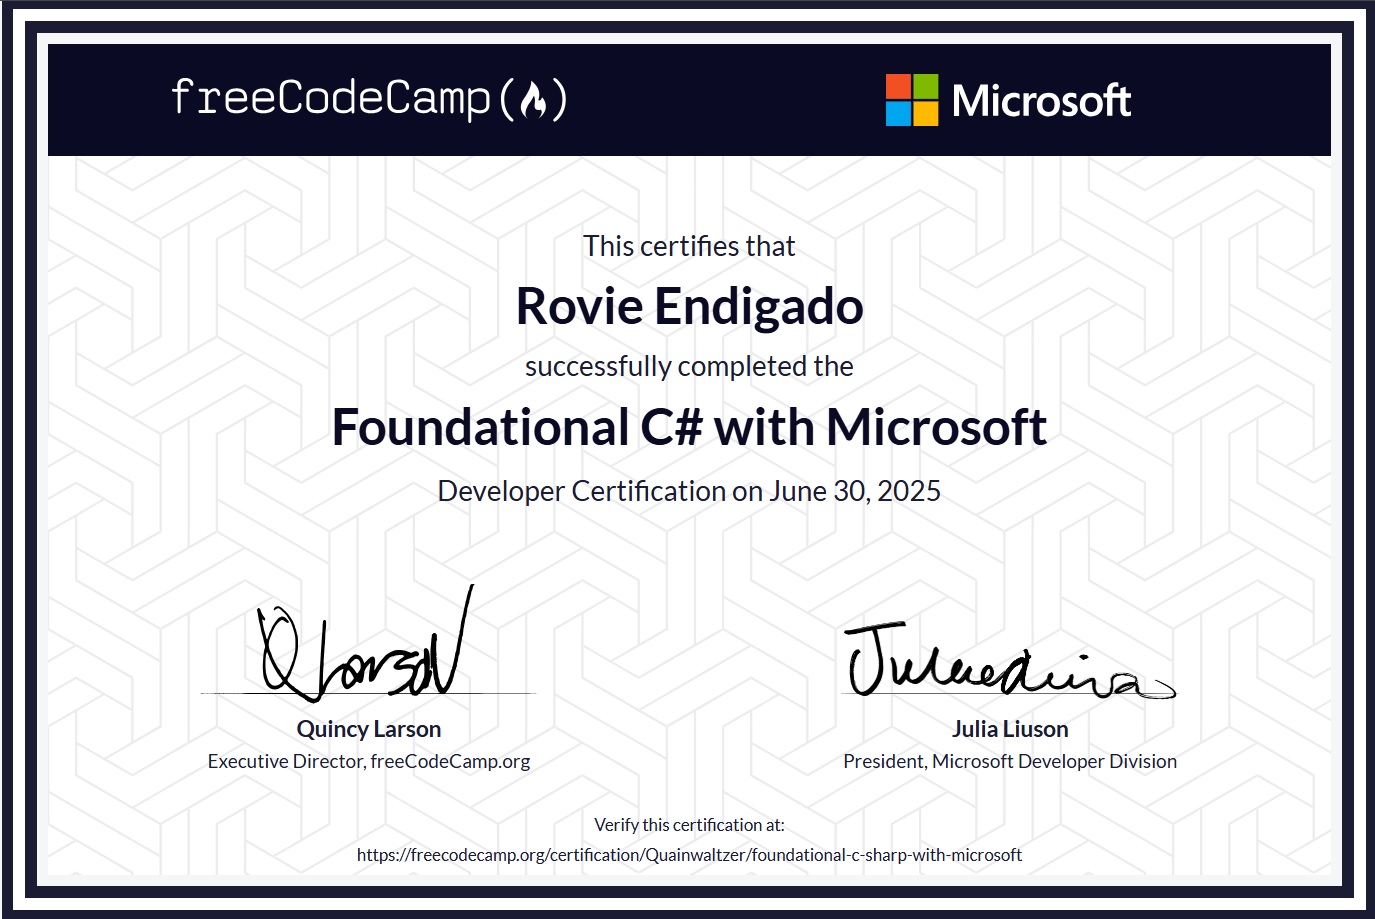
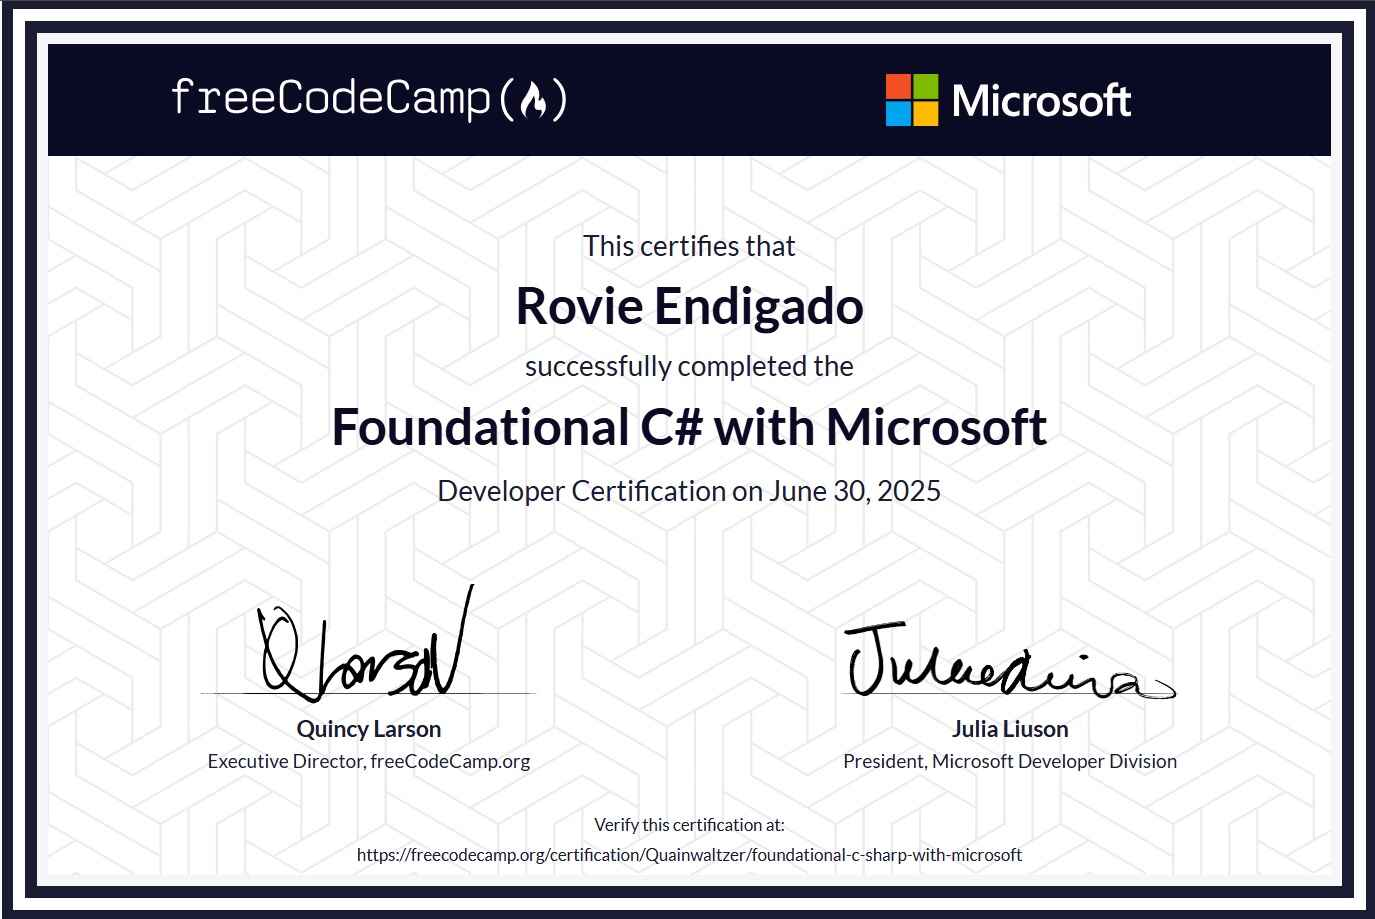
Compressed images

diff --git a/src/routes/+page.svelte b/src/routes/+page.svelte
@@ -719,7 +719,7 @@
 
 			<div class="image-position">
 				<div class="image-container">
-					<img src="/img/profile.png" alt="" />
+					<img src="/img/profile.jpg" alt="" />
 				</div>
 			</div>
 		</div>
